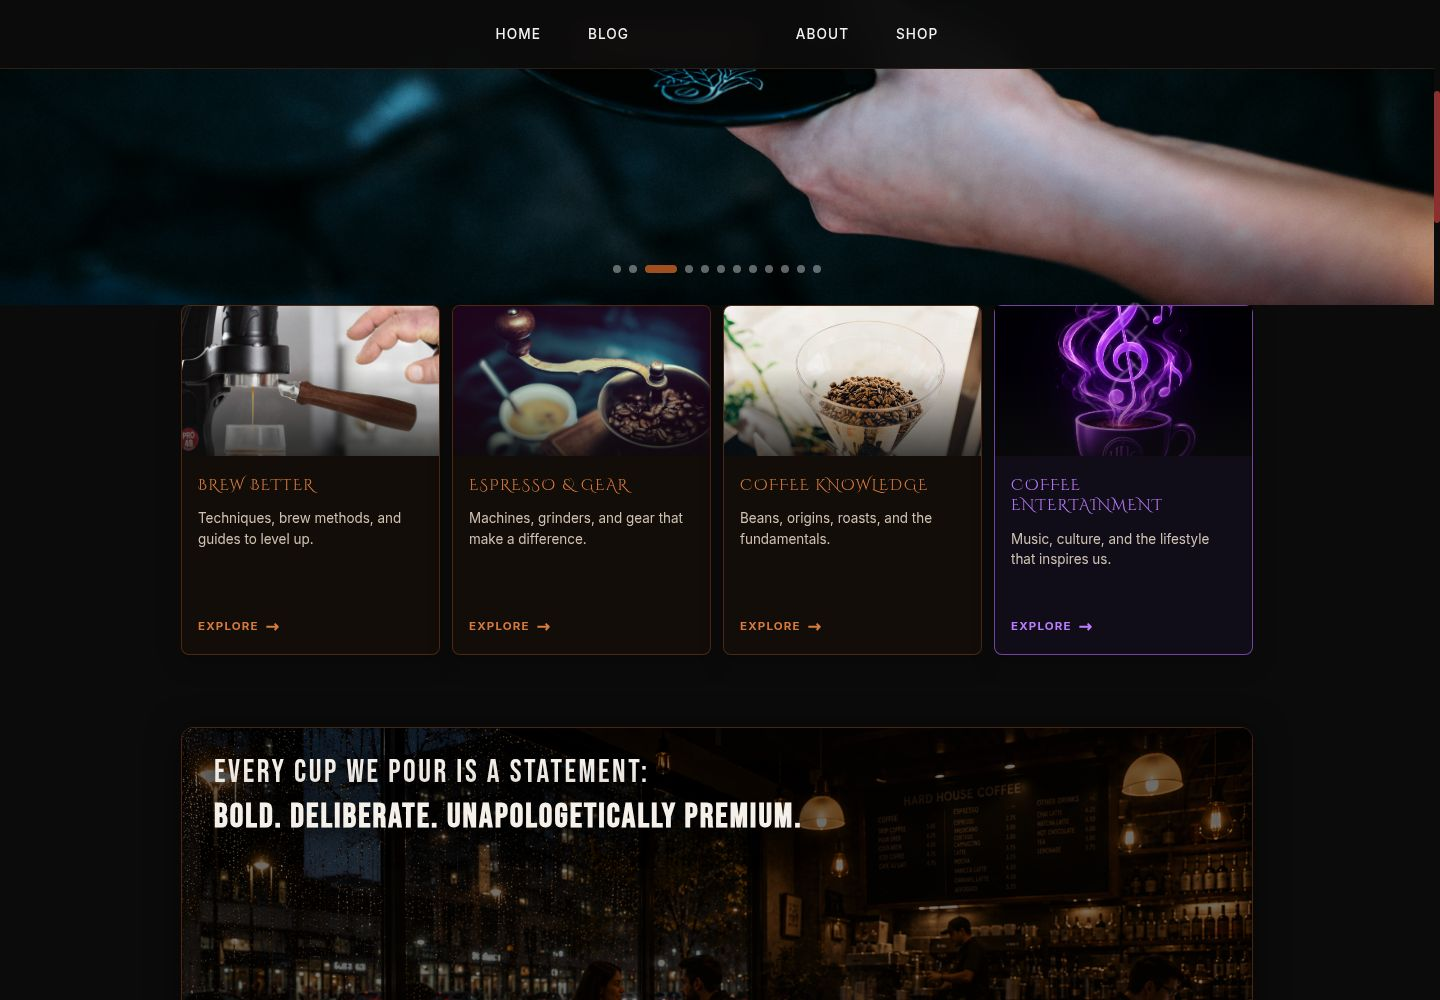
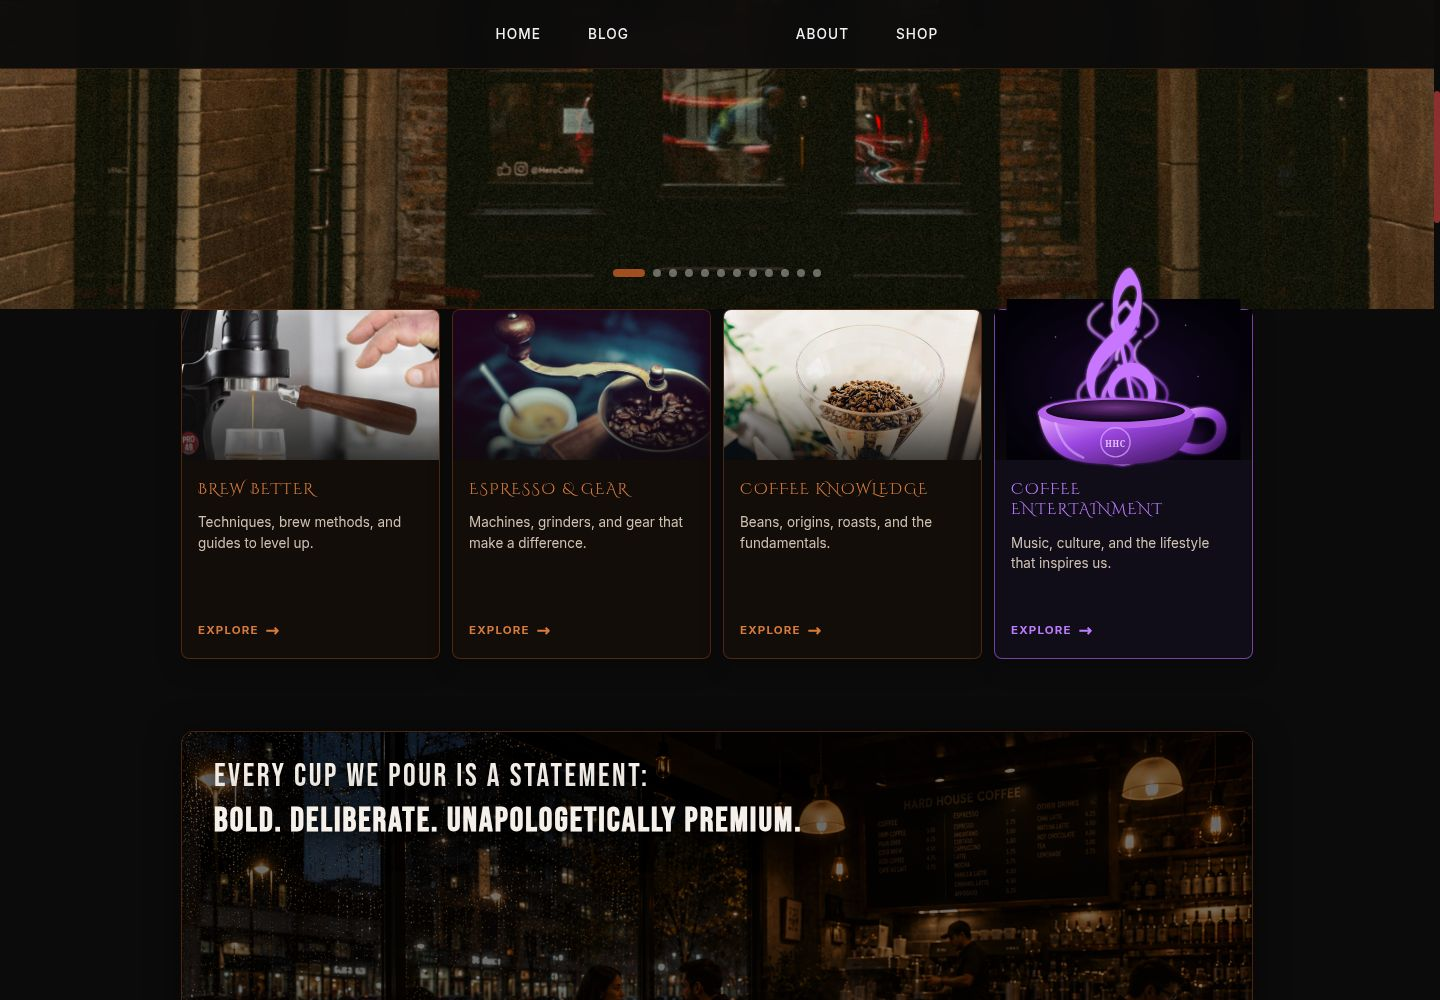
Update editorial category navigation and update related project assets
Replit-Commit-Author: Agent

diff --git a/artifacts/hard-house-coffee/src/components/EditorialCategoryNav.tsx b/artifacts/hard-house-coffee/src/components/EditorialCategoryNav.tsx
@@ -45,67 +45,120 @@ const cards: Array<{
 function CoffeeEntertainmentVisual() {
   return (
     <div className="hhc-editorial-entertainment-visual" aria-hidden="true">
-      <img
-        className="hhc-editorial-entertainment-base"
-        src="/images/coffee-entertainment-approved.png"
-        alt=""
-        draggable="false"
-      />
-      <div className="hhc-editorial-entertainment-animation">
-        <svg className="hhc-editorial-entertainment-overlay" viewBox="0 0 240 160" role="presentation">
-          <defs>
-            <linearGradient id="hhc-entertainment-overlay-steam" x1="0" x2="1" y1="0" y2="1">
-              <stop offset="0" stopColor="#efd0ff" />
-              <stop offset="0.5" stopColor="#cb88f5" />
-              <stop offset="1" stopColor="#9c4ed2" />
-            </linearGradient>
-            <filter id="hhc-entertainment-overlay-glow" x="-50%" y="-50%" width="200%" height="200%">
-              <feGaussianBlur stdDeviation="1.2" result="blur" />
-              <feMerge>
-                <feMergeNode in="blur" />
-                <feMergeNode in="SourceGraphic" />
-              </feMerge>
-            </filter>
-          </defs>
+      <svg className="hhc-editorial-entertainment-artwork" viewBox="0 0 320 220" role="presentation">
+        <defs>
+          <radialGradient id="hhc-entertainment-background" cx="50%" cy="53%" r="64%">
+            <stop offset="0" stopColor="#1a0b2d" />
+            <stop offset="0.55" stopColor="#0b0415" />
+            <stop offset="1" stopColor="#020106" />
+          </radialGradient>
+          <linearGradient id="hhc-entertainment-steam" x1="0" x2="1" y1="0" y2="1">
+            <stop offset="0" stopColor="#f0c9ff" />
+            <stop offset="0.48" stopColor="#c56cff" />
+            <stop offset="1" stopColor="#8030bd" />
+          </linearGradient>
+          <linearGradient id="hhc-entertainment-cup" x1="0" x2="1" y1="0" y2="1">
+            <stop offset="0" stopColor="#e6a8ff" />
+            <stop offset="0.42" stopColor="#9a45df" />
+            <stop offset="1" stopColor="#35104f" />
+          </linearGradient>
+          <radialGradient id="hhc-entertainment-coffee" cx="50%" cy="35%" r="72%">
+            <stop offset="0" stopColor="#6f3484" />
+            <stop offset="0.64" stopColor="#1e092c" />
+            <stop offset="1" stopColor="#050208" />
+          </radialGradient>
+          <filter id="hhc-entertainment-glow" x="-50%" y="-50%" width="200%" height="200%">
+            <feGaussianBlur stdDeviation="2.4" result="blur" />
+            <feMerge>
+              <feMergeNode in="blur" />
+              <feMergeNode in="SourceGraphic" />
+            </feMerge>
+          </filter>
+          <filter id="hhc-entertainment-soft-glow" x="-60%" y="-60%" width="220%" height="220%">
+            <feGaussianBlur stdDeviation="7" />
+          </filter>
+        </defs>
 
-          <g
-            className="hhc-editorial-entertainment-steam-overlay"
-            fill="none"
-            stroke="url(#hhc-entertainment-overlay-steam)"
-            strokeLinecap="round"
-            filter="url(#hhc-entertainment-overlay-glow)"
+        <rect width="320" height="220" fill="url(#hhc-entertainment-background)" />
+        <ellipse cx="160" cy="190" rx="112" ry="30" fill="#7c2fb8" opacity="0.2" filter="url(#hhc-entertainment-soft-glow)" />
+        <g fill="#eac2ff" opacity="0.58">
+          <circle cx="67" cy="52" r="1.1" />
+          <circle cx="245" cy="36" r="1" />
+          <circle cx="262" cy="106" r="0.9" />
+          <circle cx="61" cy="135" r="0.8" />
+          <circle cx="218" cy="141" r="0.7" />
+        </g>
+
+        <g className="hhc-editorial-entertainment-steam" fill="none" stroke="url(#hhc-entertainment-steam)" strokeLinecap="round" filter="url(#hhc-entertainment-glow)">
+          <path
+            className="hhc-editorial-entertainment-steam-path hhc-editorial-entertainment-steam-path-one"
+            d="M126 163c-31-17-41-38-8-57 34-19 34-40 6-57-19-12-16-26 6-42"
+            strokeWidth="4.2"
+          />
+          <path
+            className="hhc-editorial-entertainment-steam-path hhc-editorial-entertainment-steam-path-two"
+            d="M145 163c-19-22-17-40 8-58 27-19 24-38 3-54-17-13-14-28 7-46"
+            strokeWidth="5.6"
+          />
+          <path
+            className="hhc-editorial-entertainment-steam-path hhc-editorial-entertainment-steam-path-three"
+            d="M170 163c22-21 22-39-3-57-25-18-22-37 1-54 17-13 14-28-5-45"
+            strokeWidth="4.1"
+          />
+          <path
+            className="hhc-editorial-entertainment-steam-path hhc-editorial-entertainment-steam-path-four"
+            d="M190 163c34-18 42-38 10-58-33-20-31-39-6-56 19-13 16-27-6-43"
+            strokeWidth="3.1"
+            opacity="0.72"
+          />
+        </g>
+
+        <g className="hhc-editorial-entertainment-clef" fill="#c875ff" filter="url(#hhc-entertainment-glow)">
+          <text
+            x="157"
+            y="165"
+            fontFamily="'Noto Music', 'Bravura Text', 'Segoe UI Symbol', 'Arial Unicode MS', serif"
+            fontSize="156"
+            textAnchor="middle"
           >
-            <path
-              className="hhc-editorial-entertainment-steam-overlay-path hhc-editorial-entertainment-steam-overlay-path-one"
-              d="M96 115c-24-17-31-31-8-44 24-14 23-29 4-42-14-10-12-19 5-28"
-              strokeWidth="2.2"
-            />
-            <path
-              className="hhc-editorial-entertainment-steam-overlay-path hhc-editorial-entertainment-steam-overlay-path-two"
-              d="M116 115c-12-18-10-31 8-43 18-12 17-27 1-39-12-9-10-19 5-29"
-              strokeWidth="2.7"
-            />
-            <path
-              className="hhc-editorial-entertainment-steam-overlay-path hhc-editorial-entertainment-steam-overlay-path-three"
-              d="M139 115c16-16 16-30-2-42-17-12-16-26 0-39 12-10 10-19-4-30"
-              strokeWidth="2.1"
-            />
-          </g>
+            𝄞
+          </text>
+        </g>
 
-          <g className="hhc-editorial-entertainment-floating-note hhc-editorial-entertainment-floating-note-one" fill="#d9a4ff" filter="url(#hhc-entertainment-overlay-glow)">
-            <ellipse cx="166" cy="58" rx="4.8" ry="3.8" transform="rotate(-18 166 58)" />
-            <path d="M170 57V42c6 1 9 4 11 7-3-2-6-3-11-3" fill="none" stroke="#d9a4ff" strokeLinecap="round" strokeWidth="2" />
-          </g>
-          <g className="hhc-editorial-entertainment-floating-note hhc-editorial-entertainment-floating-note-two" fill="#d9a4ff" filter="url(#hhc-entertainment-overlay-glow)">
-            <ellipse cx="190" cy="78" rx="4.4" ry="3.5" transform="rotate(-18 190 78)" />
-            <path d="M194 77V63c6 1 9 4 11 7-3-2-6-3-11-3" fill="none" stroke="#d9a4ff" strokeLinecap="round" strokeWidth="2" />
-          </g>
-          <g className="hhc-editorial-entertainment-floating-note hhc-editorial-entertainment-floating-note-three" fill="#d9a4ff" filter="url(#hhc-entertainment-overlay-glow)">
-            <ellipse cx="76" cy="64" rx="4.2" ry="3.4" transform="rotate(16 76 64)" />
-            <path d="M72 63V49c-6 1-9 4-11 7 3-2 6-3 11-3" fill="none" stroke="#d9a4ff" strokeLinecap="round" strokeWidth="2" />
-          </g>
-        </svg>
-      </div>
+        <g className="hhc-editorial-entertainment-cup" filter="url(#hhc-entertainment-glow)">
+          <path
+            d="M238 163c34-17 58-6 56 16-2 23-27 34-57 21"
+            fill="none"
+            stroke="url(#hhc-entertainment-cup)"
+            strokeLinecap="round"
+            strokeWidth="13"
+          />
+          <path
+            d="M44 157c6 37 22 57 51 64 31 7 86 7 116-1 28-8 42-29 47-63H44Z"
+            fill="url(#hhc-entertainment-cup)"
+          />
+          <ellipse cx="149" cy="156" rx="106" ry="21" fill="#b663ec" />
+          <ellipse cx="149" cy="153" rx="95" ry="15" fill="url(#hhc-entertainment-coffee)" />
+          <path d="M67 170c7 25 18 39 38 47" fill="none" stroke="#f0ceff" strokeLinecap="round" strokeOpacity="0.46" strokeWidth="3.4" />
+          <circle cx="149" cy="196" r="20" fill="none" stroke="#d9a4ff" strokeOpacity="0.76" strokeWidth="2" />
+          <text x="149" y="202" fill="#e9c5ff" fontFamily="Georgia, serif" fontSize="11" fontWeight="700" letterSpacing="0.08em" textAnchor="middle">
+            HHC
+          </text>
+        </g>
+
+        <g className="hhc-editorial-entertainment-note hhc-editorial-entertainment-note-one" fill="#d9a4ff" filter="url(#hhc-entertainment-glow)">
+          <ellipse cx="223" cy="65" rx="6.2" ry="4.7" transform="rotate(-18 223 65)" />
+          <path d="M229 64V43c8 2 12 6 15 10-4-3-8-4-15-4" fill="none" stroke="#d9a4ff" strokeLinecap="round" strokeWidth="2.8" />
+        </g>
+        <g className="hhc-editorial-entertainment-note hhc-editorial-entertainment-note-two" fill="#d9a4ff" filter="url(#hhc-entertainment-glow)">
+          <ellipse cx="254" cy="80" rx="5.5" ry="4.3" transform="rotate(-18 254 80)" />
+          <path d="M259 79V60c7 2 11 5 13 9-4-2-8-4-13-4" fill="none" stroke="#d9a4ff" strokeLinecap="round" strokeWidth="2.5" />
+        </g>
+        <g className="hhc-editorial-entertainment-note hhc-editorial-entertainment-note-three" fill="#d9a4ff" filter="url(#hhc-entertainment-glow)">
+          <ellipse cx="78" cy="78" rx="5.2" ry="4" transform="rotate(16 78 78)" />
+          <path d="M73 77V58c-7 2-11 5-13 9 4-2 8-4 13-4" fill="none" stroke="#d9a4ff" strokeLinecap="round" strokeWidth="2.5" />
+        </g>
+      </svg>
     </div>
   );
 }

diff --git a/artifacts/hard-house-coffee/src/index.css b/artifacts/hard-house-coffee/src/index.css
@@ -1147,69 +1147,62 @@ a, button {
   background: #05010b;
 }
 
-.hhc-editorial-entertainment-base {
+.hhc-editorial-entertainment-artwork {
   position: absolute;
-  inset: 0;
-  z-index: 0;
+  inset: -0.7rem 0 0;
+  z-index: 2;
   display: block;
   width: 100%;
-  height: 100%;
-  object-fit: cover;
-}
-
-.hhc-editorial-entertainment-animation {
-  position: absolute;
-  inset: 0;
-  z-index: 2;
+  height: calc(100% + 0.7rem);
   overflow: visible;
   pointer-events: none;
 }
 
-.hhc-editorial-entertainment-overlay {
-  position: absolute;
-  inset: -0.35rem 0 0;
-  display: block;
-  width: 100%;
-  height: calc(100% + 0.35rem);
-  overflow: visible;
+.hhc-editorial-entertainment-clef,
+.hhc-editorial-entertainment-cup {
+  transform: none;
 }
 
-.hhc-editorial-entertainment-steam-overlay-path {
+.hhc-editorial-entertainment-steam-path {
   transform-box: fill-box;
   transform-origin: center bottom;
-  stroke-dasharray: 48 8 34 7;
-  opacity: 0.2;
+  stroke-dasharray: 72 9 48 8;
+  opacity: 0.68;
   will-change: opacity, transform, stroke-dashoffset;
 }
 
-.hhc-editorial-entertainment-floating-note {
+.hhc-editorial-entertainment-note {
   opacity: 0;
   transform-box: fill-box;
   transform-origin: center;
   will-change: opacity, transform;
 }
 
-.hhc-editorial-nav.is-visible .hhc-editorial-entertainment-steam-overlay-path-one {
+.hhc-editorial-nav.is-visible .hhc-editorial-entertainment-steam-path-one {
   animation: hhc-editorial-entertainment-overlay-steam-left 4.8s ease-in-out infinite;
 }
 
-.hhc-editorial-nav.is-visible .hhc-editorial-entertainment-steam-overlay-path-two {
+.hhc-editorial-nav.is-visible .hhc-editorial-entertainment-steam-path-two {
   animation: hhc-editorial-entertainment-overlay-steam-center 5.2s -1.1s ease-in-out infinite;
 }
 
-.hhc-editorial-nav.is-visible .hhc-editorial-entertainment-steam-overlay-path-three {
+.hhc-editorial-nav.is-visible .hhc-editorial-entertainment-steam-path-three {
   animation: hhc-editorial-entertainment-overlay-steam-right 4.9s -2s ease-in-out infinite;
 }
 
-.hhc-editorial-nav.is-visible .hhc-editorial-entertainment-floating-note-one {
+.hhc-editorial-nav.is-visible .hhc-editorial-entertainment-steam-path-four {
+  animation: hhc-editorial-entertainment-overlay-steam-right 5.4s -0.7s ease-in-out infinite reverse;
+}
+
+.hhc-editorial-nav.is-visible .hhc-editorial-entertainment-note-one {
   animation: hhc-editorial-entertainment-floating-note-left 4.6s 0.4s ease-in-out infinite;
 }
 
-.hhc-editorial-nav.is-visible .hhc-editorial-entertainment-floating-note-two {
+.hhc-editorial-nav.is-visible .hhc-editorial-entertainment-note-two {
   animation: hhc-editorial-entertainment-floating-note-right 5s 2.1s ease-in-out infinite;
 }
 
-.hhc-editorial-nav.is-visible .hhc-editorial-entertainment-floating-note-three {
+.hhc-editorial-nav.is-visible .hhc-editorial-entertainment-note-three {
   animation: hhc-editorial-entertainment-floating-note-soft 4.8s 1.6s ease-in-out infinite;
 }
 
@@ -1355,12 +1348,12 @@ a, button {
 
 @keyframes hhc-editorial-entertainment-overlay-steam-left {
   0%, 100% {
-    opacity: 0.14;
+    opacity: 0.54;
     stroke-dashoffset: 0;
     transform: scaleX(0.99) skewX(-0.4deg);
   }
   50% {
-    opacity: 0.27;
+    opacity: 0.9;
     stroke-dashoffset: -12;
     transform: scaleX(1.015) skewX(0.55deg);
   }
@@ -1368,12 +1361,12 @@ a, button {
 
 @keyframes hhc-editorial-entertainment-overlay-steam-center {
   0%, 100% {
-    opacity: 0.16;
+    opacity: 0.62;
     stroke-dashoffset: -4;
     transform: scaleX(0.99) skewX(0.45deg);
   }
   50% {
-    opacity: 0.3;
+    opacity: 0.96;
     stroke-dashoffset: -15;
     transform: scaleX(1.02) skewX(-0.65deg);
   }
@@ -1381,12 +1374,12 @@ a, button {
 
 @keyframes hhc-editorial-entertainment-overlay-steam-right {
   0%, 100% {
-    opacity: 0.12;
+    opacity: 0.48;
     stroke-dashoffset: -8;
     transform: scaleX(1.015) skewX(0.55deg);
   }
   50% {
-    opacity: 0.24;
+    opacity: 0.84;
     stroke-dashoffset: -18;
     transform: scaleX(0.985) skewX(-0.45deg);
   }
@@ -1571,7 +1564,7 @@ a, button {
   }
 
   .hhc-editorial-entertainment-note {
-    opacity: 0.8;
+    opacity: 0;
     transform: none;
   }
 
